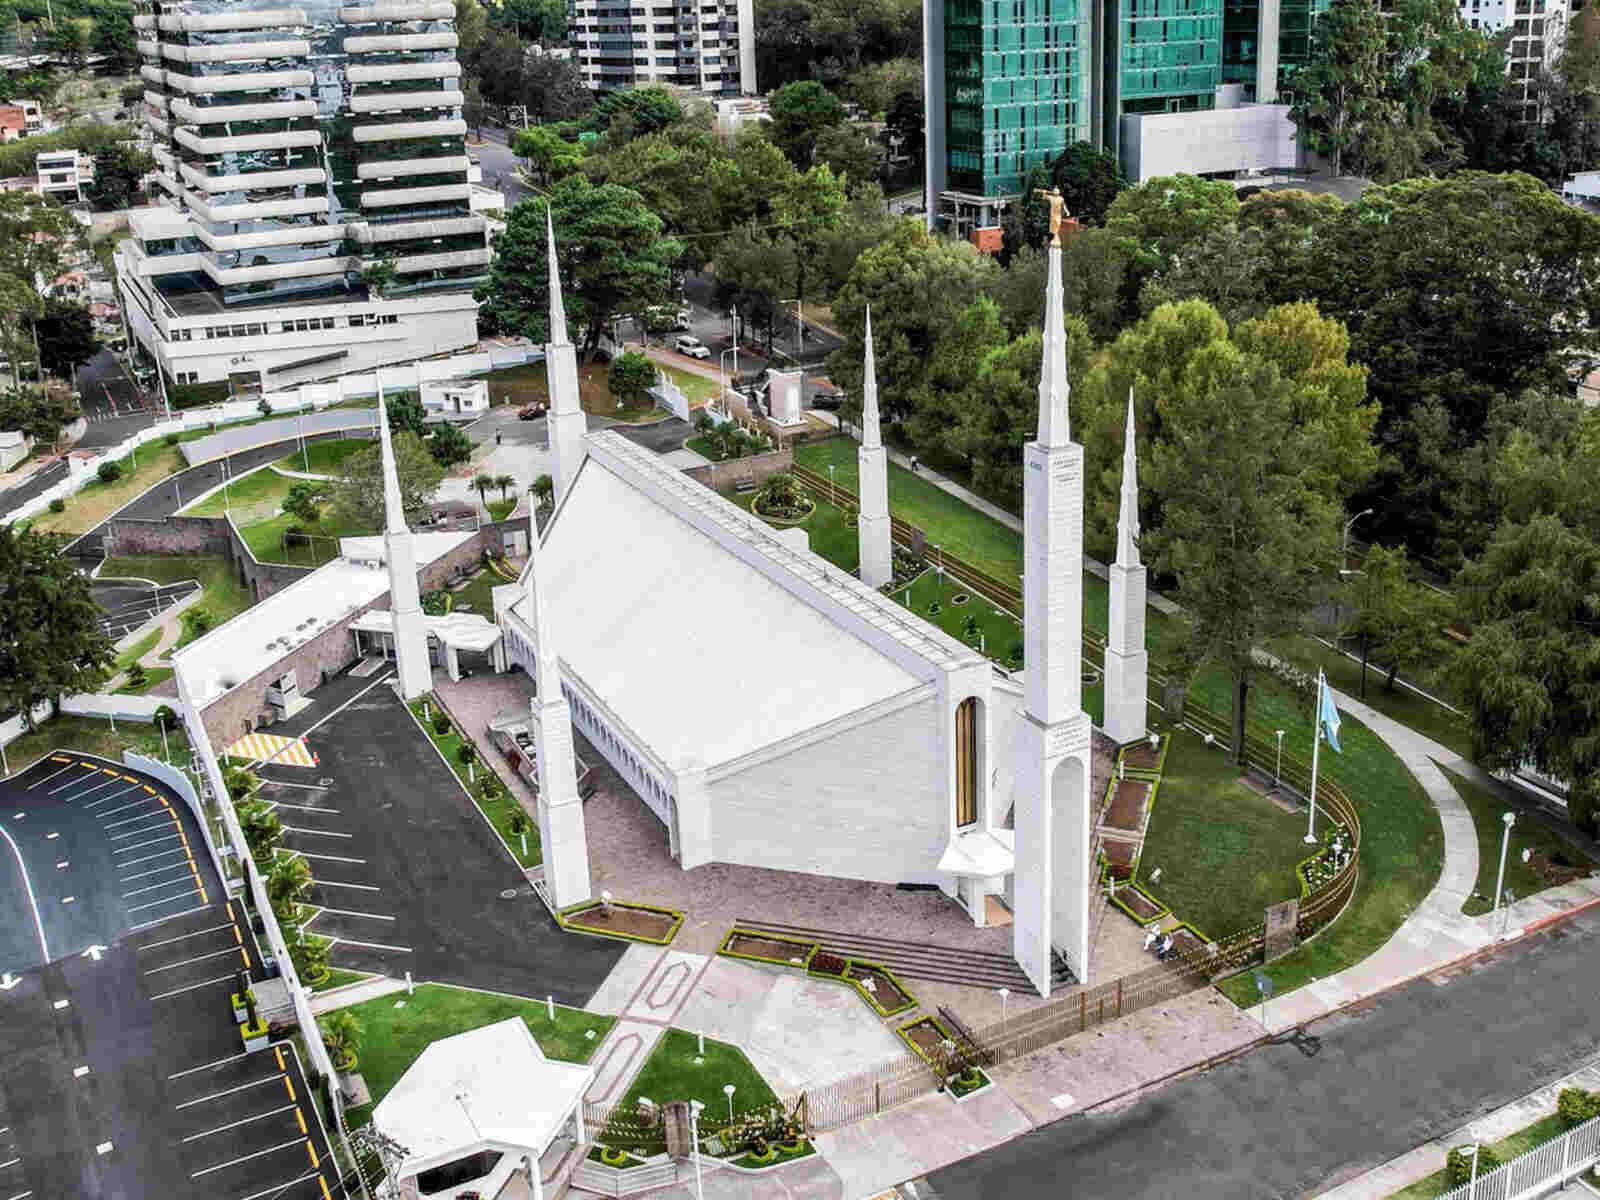
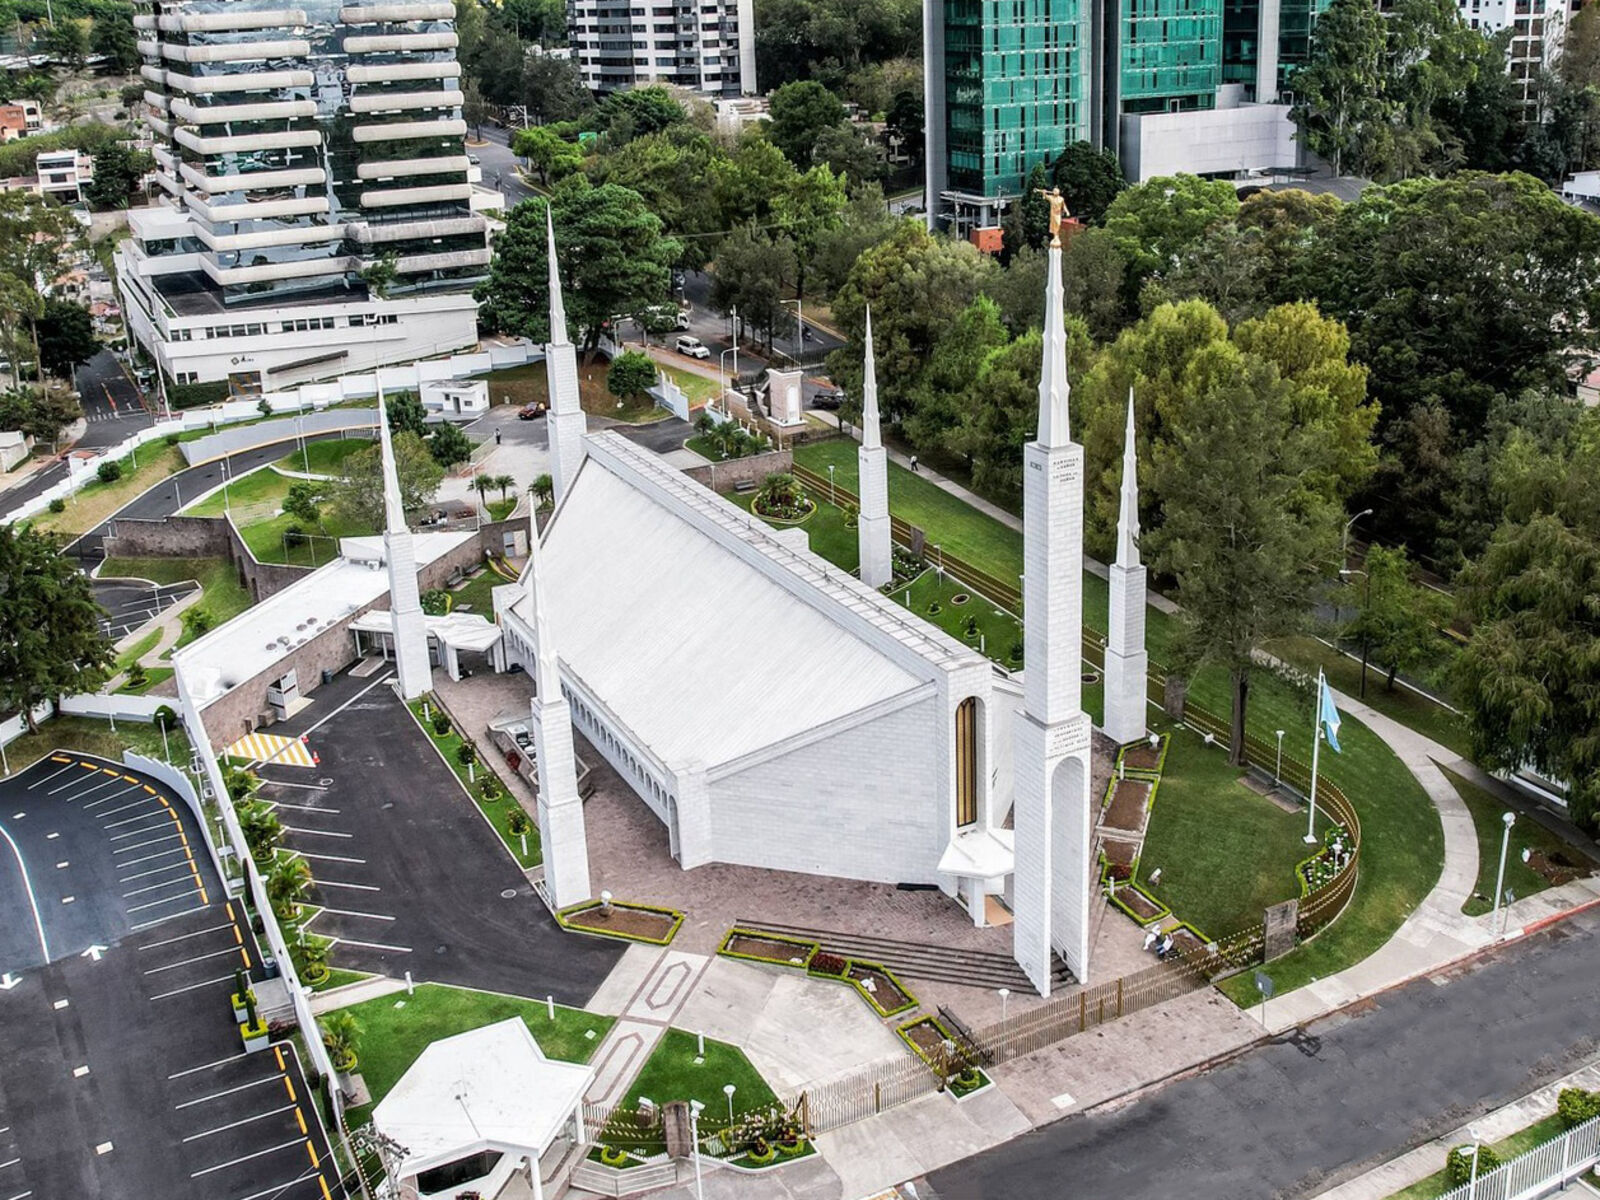
week4 filter

diff --git a/scripts/filtered-temples.js b/scripts/filtered-temples.js
@@ -12,7 +12,7 @@ const temples = [
     dedicated: "2005, August, 7",
     area: 11500,
     imageUrl:
-    "https://content.churchofjesuschrist.org/templesldsorg/bc/Temples/photo-galleries/aba-nigeria/400x250/aba-nigeria-temple-lds-273999-wallpaper.jpg"
+    "images/aba-nigeria.jpg"
   },
   {
     templeName: "Manti Utah",
@@ -20,7 +20,7 @@ const temples = [
     dedicated: "1888, May, 21",
     area: 74792,
     imageUrl:
-    "https://content.churchofjesuschrist.org/templesldsorg/bc/Temples/photo-galleries/manti-utah/400x250/manti-temple-768192-wallpaper.jpg"
+    "images/manti.jpg"
   },
   {
     templeName: "Payson Utah",
@@ -28,39 +28,35 @@ const temples = [
     dedicated: "2015, June, 7",
     area: 96630,
     imageUrl:
-    "https://content.churchofjesuschrist.org/templesldsorg/bc/Temples/photo-galleries/payson-utah/400x225/payson-utah-temple-exterior-1416671-wallpaper.jpg"
+    "images/payson-utah.jpg"
   },
   {
     templeName: "Yigo Guam",
     location: "Yigo, Guam",
     dedicated: "2020, May, 2",
     area: 6861,
-    imageUrl:
-    "https://content.churchofjesuschrist.org/templesldsorg/bc/Temples/photo-galleries/yigo-guam/400x250/yigo_guam_temple_2.jpg"
+    imageUrl: "images/yigo-guam.jpg"
   },
   {
     templeName: "Washington D.C.",
     location: "Kensington, Maryland, United States",
     dedicated: "1974, November, 19",
     area: 156558,
-    imageUrl:
-    "https://content.churchofjesuschrist.org/templesldsorg/bc/Temples/photo-galleries/washington-dc/400x250/washington_dc_temple-exterior-2.jpeg"
+    imageUrl: "images/washington-dc.jpg"
   },
   {
     templeName: "Lima Perú",
     location: "Lima, Perú",
     dedicated: "1986, January, 10",
     area: 9600,
-    imageUrl:
-    "https://content.churchofjesuschrist.org/templesldsorg/bc/Temples/photo-galleries/lima-peru/400x250/lima-peru-temple-evening-1075606-wallpaper.jpg"
+    imageUrl: "images/lima-peru.jpg"
   },
   {
     templeName: "Mexico City Mexico",
     location: "Mexico City, Mexico",
     dedicated: "1983, December, 2",
     area: 116642,
-    imageUrl:
-    "https://content.churchofjesuschrist.org/templesldsorg/bc/Temples/photo-galleries/mexico-city-mexico/400x250/mexico-city-temple-exterior-1518361-wallpaper.jpg"
+    imageUrl: "images/mexico-city.jpg"
   },
   
     // Additional temple 1
@@ -69,7 +65,7 @@ const temples = [
         location: "Salt Lake City, Utah, United States",
         dedicated: "1893, April, 6",
         area: 253015,
-        imageUrl: "https://churchofjesuschristtemples.org/assets/img/temples/salt-lake-temple/salt-lake-temple-6813.jpg"
+        imageUrl: "images/salt-lake.jpg"
     },
 
     // Additional temple 2
@@ -78,7 +74,7 @@ const temples = [
         location: "Guatemala City, Guatemala",
         dedicated: "1984, December, 14",
         area: 11600,
-        imageUrl: "https://churchofjesuschristtemples.org/assets/img/temples/guatemala-city-guatemala-temple/guatemala-city-guatemala-temple-68580.jpg"
+        imageUrl: "images/guatemala-city.jpg"
     },
 
     // Additional temple 3
@@ -87,7 +83,7 @@ const temples = [
         location: "Rome, Italy",
         dedicated: "2019, March, 10",
         area: 41010,
-        imageUrl: "https://churchofjesuschristtemples.org/assets/img/temples/rome-italy-temple/rome-italy-temple-2642-main.jpg"
+        imageUrl: "images/rome-italy.jpg"
     }
 ];
 
